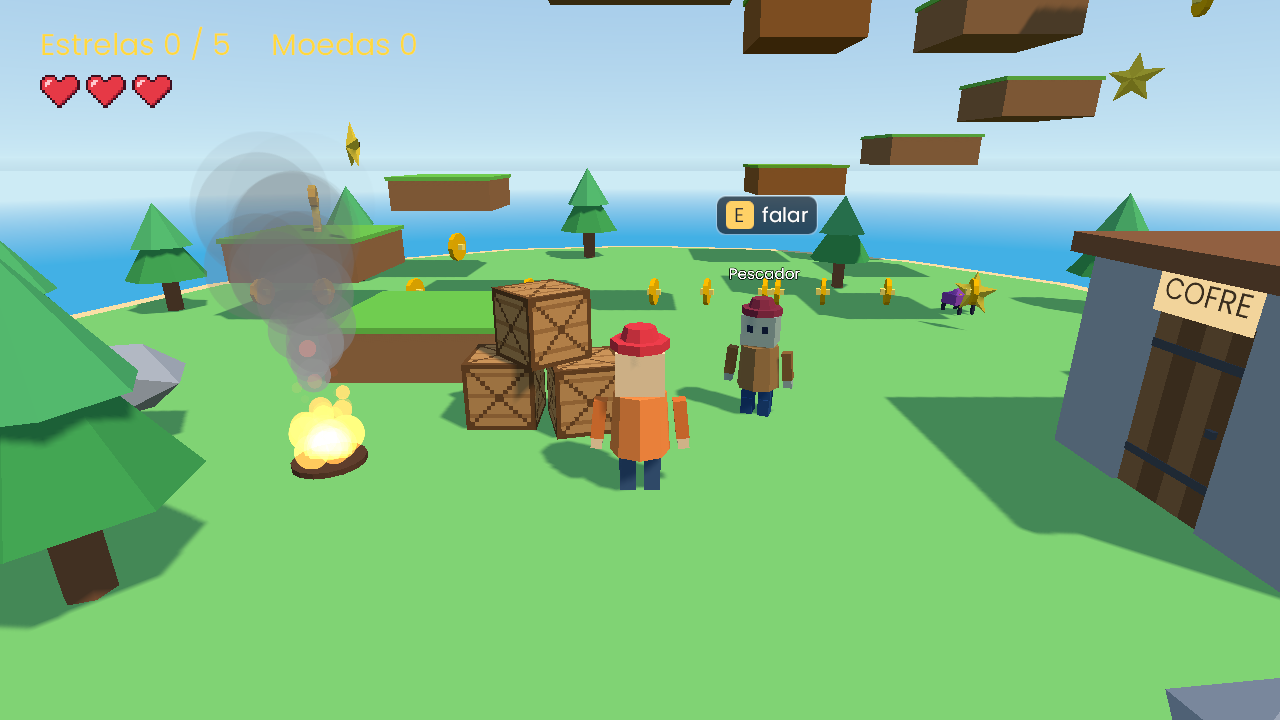
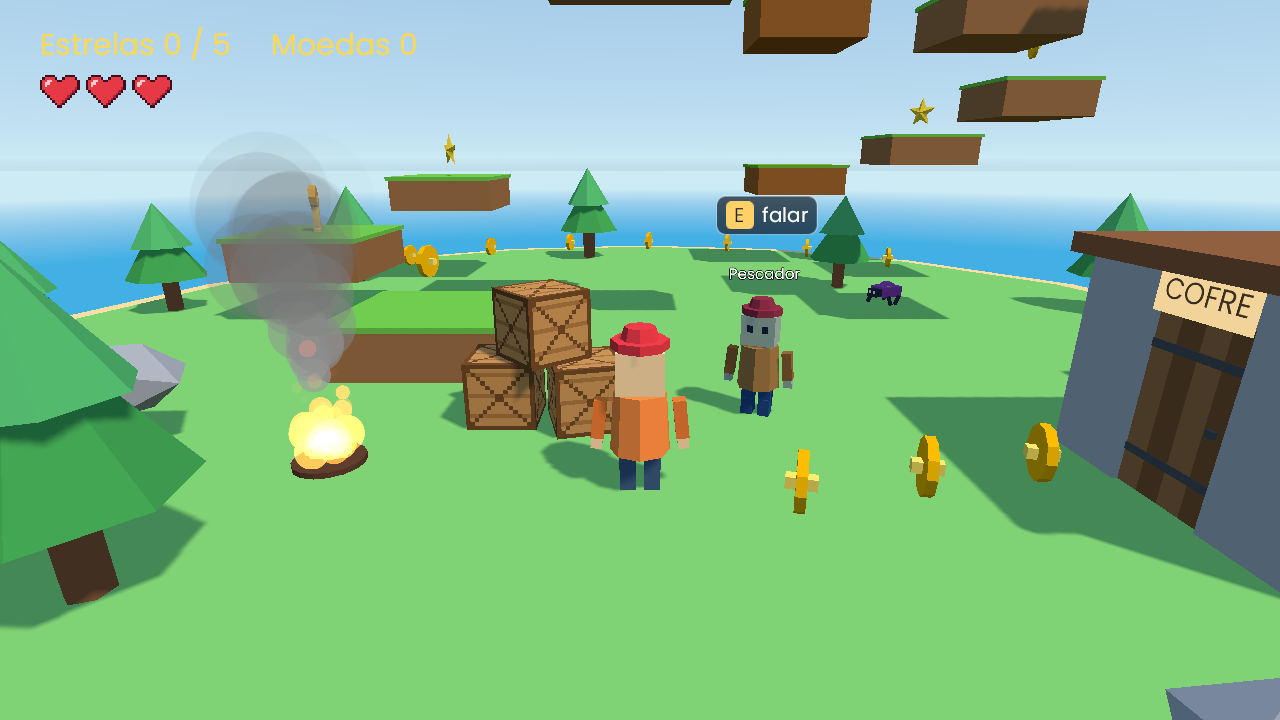
Sprint 36: barra de vida some longe ou atrás do cenário, cópias de prefab no 3D no lugar certo (o mesmo do #38), imagem do combate na documentação, Inspetor com as listas de animações e ossos juntas
Claude-Session: https://claude.ai/code/session_019HQhtXMJFTUUWW1iWbYT25

diff --git a/crates/nn-studio/src/inspector.rs b/crates/nn-studio/src/inspector.rs
@@ -2758,8 +2758,10 @@ impl Inspector {
                             &current,
                             files,
                             names,
-                            &anims,
-                            &bones,
+                            Lists {
+                                anims: &anims,
+                                bones: &bones,
+                            },
                             (id, ci),
                         ) {
                             changes.push((p.key.clone(), new));
@@ -2948,9 +2950,18 @@ impl Inspector {
                         is_instance && obj.is_some_and(|x| x.is_overridden(ci, &spec.key));
                     field_row(ui, &spec, overridden, &mut reverts);
                     let current = comp.get(&spec.key).cloned().unwrap_or(Prop::Num(0.0));
-                    if let Some(new) =
-                        field_widget(ui, &spec, &current, files, names, &anims, &bones, (id, ci))
-                    {
+                    if let Some(new) = field_widget(
+                        ui,
+                        &spec,
+                        &current,
+                        files,
+                        names,
+                        Lists {
+                            anims: &anims,
+                            bones: &bones,
+                        },
+                        (id, ci),
+                    ) {
                         changes.push((spec.key.clone(), new));
                     }
                     ui.end_row();
@@ -3190,10 +3201,10 @@ fn field_widget(
     current: &Prop,
     files: &FileTree,
     names: &[String],
-    anims: &[String],
-    bones: &[String],
+    lists: Lists<'_>,
     salt: (u32, usize),
 ) -> Option<Prop> {
+    let Lists { anims, bones } = lists;
     let width = ui.available_width().clamp(80.0, 180.0);
     match &spec.w {
         Wd::Num {
@@ -3561,6 +3572,14 @@ pub fn hand_bone(bones: &[String]) -> Option<String> {
             })
         })
         .cloned()
+}
+
+/// As listas que alguns campos oferecem: as animações (da imagem ou do modelo)
+/// e os ossos de um modelo 3D.
+#[derive(Debug, Clone, Copy)]
+struct Lists<'a> {
+    anims: &'a [String],
+    bones: &'a [String],
 }
 
 /// Um osso de um modelo: a lista dos ossos (ou texto, se o editor não

diff --git a/crates/nn-script/tests/cena3d.rs b/crates/nn-script/tests/cena3d.rs
@@ -1049,3 +1049,55 @@ fn clique_do_mouse_no_3d_acerta_o_objeto_e_nao_da_erro() {
     assert_eq!(h.game.0.error(), None);
     std::fs::remove_dir_all(&dir).unwrap();
 }
+
+/// Cópias de um prefab numa cena 3D ficam onde a cena diz: a posição em Z, a
+/// rotação 3D e a escala em Z da cópia valem (antes, só x, y e a rotação 2D:
+/// as moedas e as estrelas dos modelos 3D iam todas para z = 0).
+#[test]
+fn copias_de_prefab_no_3d_ficam_no_lugar_certo() {
+    let dir = projeto(
+        "prefab-3d",
+        &[
+            ("cenas/obs.lua", OBSERVA),
+            (
+                "prefabs/moeda.prefab",
+                r#"return { format = 1, object = { id = 1, name = "moeda", ry = 30,
+  components = { { type = "shape3d", shape = "cylinder" } } } }"#,
+            ),
+            (
+                "cenas/mundo.cena",
+                &format!(
+                    r#"return {{ format = 1, mode = "3d", gravity = -20, script = "cenas/obs.lua",
+  environment = {{ fog = false, shadows = false }},
+  objects = {{
+    {CHAO},
+    {{ id = 10, name = "moeda", prefab = "prefabs/moeda.prefab", x = 2, y = 0.6, z = 7,
+      rx = 10, ry = 90, rz = 5, scale_x = 1, scale_y = 1, scale_z = 2 }},
+    {{ id = 11, name = "outra", prefab = "prefabs/moeda.prefab", x = -1, y = 0.6 }},
+  }} }}"#
+                ),
+            ),
+        ],
+    );
+    let Some((mut h, rt)) = cena(&dir, "cenas/mundo.cena") else {
+        return;
+    };
+    h.run_frames(2);
+    assert_eq!(h.game.0.error(), None);
+    let v: Vec<f64> = lua(&rt, "{ C.objects.moeda:position3d() }");
+    assert_eq!(v, vec![2.0, 0.6000000238418579, 7.0]);
+    let r: Vec<f64> = lua(
+        &rt,
+        "{ C.objects.moeda.rx, C.objects.moeda.ry, C.objects.moeda.rz, C.objects.moeda.scale_z }",
+    );
+    assert_eq!(r, vec![10.0, 90.0, 5.0, 2.0]);
+    // Sem os campos na cópia, valem os do prefab.
+    let ry: f64 = lua(&rt, "C.objects.outra.ry");
+    assert_eq!(ry, 30.0);
+    // scene:spawn com z também.
+    let z: f64 = lua(
+        &rt,
+        "select(3, C:spawn('prefabs/moeda.prefab', 0, 1, { z = -4 }):position3d())",
+    );
+    assert_eq!(z, -4.0);
+}

diff --git a/docs/studio.md b/docs/studio.md
@@ -843,6 +843,8 @@ O modelo **Vale 3D** já vem pronto: o herói com uma espada na mão (clique
 para golpear) e besouros com 2 de vida que mordem quando ele chega perto.
 Derrotar um besouro dá 3 moedas (um evento **Derrotar**).
 
+![O herói do Vale 3D acertando um besouro com a espada: o besouro fica vermelho e o número do dano sobe](imagens/jogo-combate-3d.png)
+
 - **Golpe** (Ações): um ataque de perto. Com **Golpeia: ao apertar**, o
   jogador golpeia com o **clique** (ou J, ou o X do controle): toca a
   animação *golpe* do modelo e, no instante do acerto (**Acerta depois de**),
